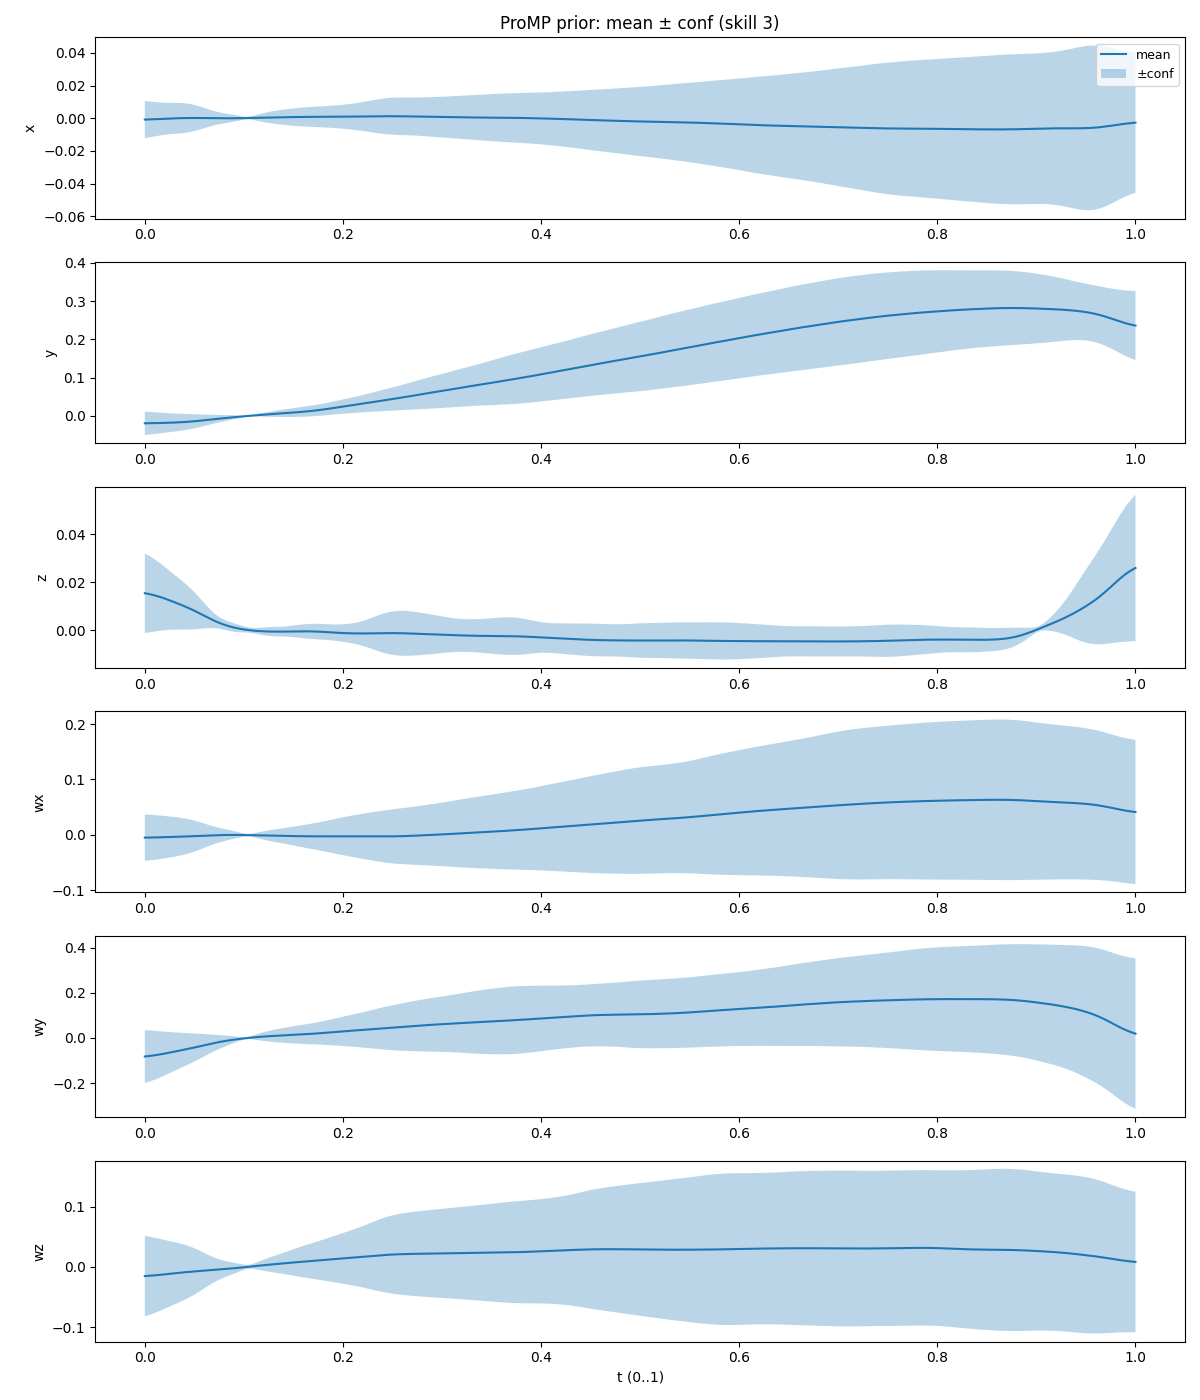
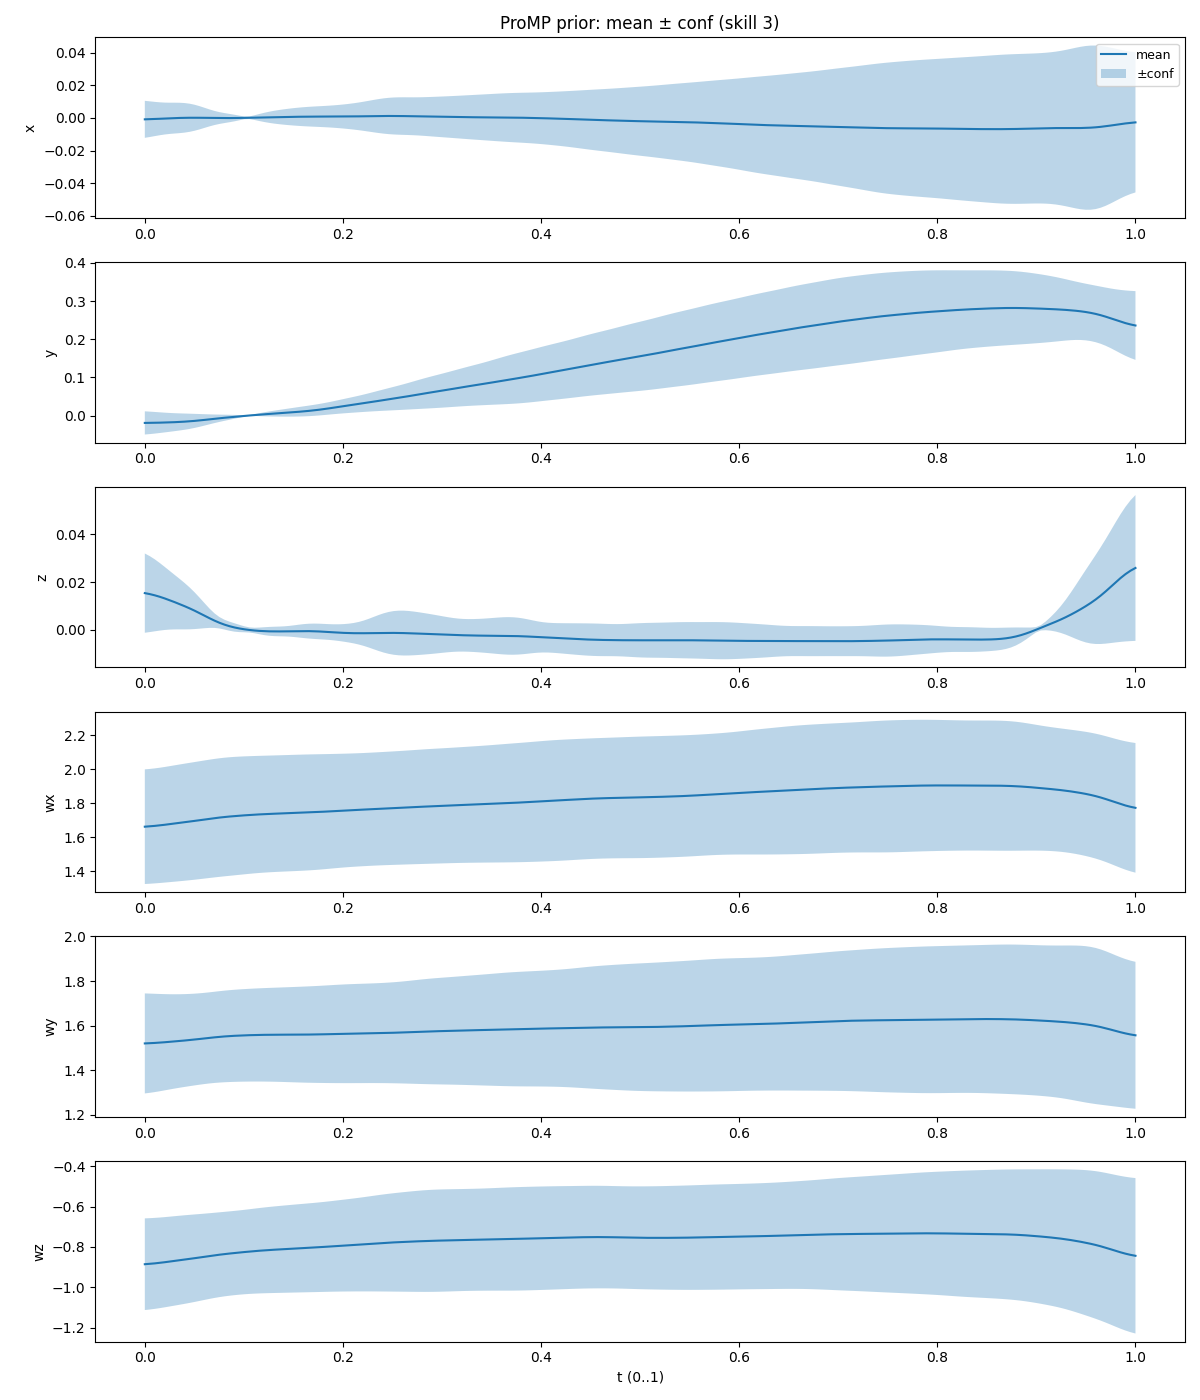
.

diff --git a/scripts/data_preprocessing.py b/scripts/data_preprocessing.py
@@ -186,6 +186,19 @@ def so3_log(R: np.ndarray) -> np.ndarray:
     w = np.array([w_hat[2, 1], w_hat[0, 2], w_hat[1, 0]], dtype=np.float64)
     return theta * w
 
+def quat_to_rotvec_abs(quat_local: np.ndarray) -> np.ndarray:
+    """
+    quat_local: (T,4) xyzw in local frame (should be unwrapped)
+    returns w_abs(t) = log(R_local(t)) in R^3
+    """
+    ql = np.asarray(quat_local, dtype=np.float64)
+    T = ql.shape[0]
+    w = np.zeros((T, 3), dtype=np.float64)
+    for t in range(T):
+        Rt = R_from_q(ql[t])
+        w[t] = so3_log(Rt)
+    return w
+
 
 def quat_to_rotvec_rel(quat_local: np.ndarray, ref_idx: int) -> np.ndarray:
     """
@@ -641,7 +654,7 @@ def main():
 
         # (B) rotvec w(t) = log(R_ref^T R_t), ref = chosen_idx
         #     (if chosen_idx invalid -> returns zeros)
-        w_full = quat_to_rotvec_rel(quat_l_u, ref_idx=chosen_idx)  # (T,3)
+        w_full = quat_to_rotvec_abs(quat_l_u)  # (T,3)
 
         # (C) mean over [chosen_idx .. chosen_idx+100)
         if chosen_idx >= 0:
@@ -867,7 +880,7 @@ def main():
             quat_l_u = unwrap_quat_signs(quat_l)
 
             # 2) rotvec (log map) relative to orientation at chosen
-            w = quat_to_rotvec_rel(quat_l_u, ref_idx=ci)  # (T,3)
+            w = quat_to_rotvec_abs(quat_l_u)  # (T,3)
 
             # 3) event-based phase resample
             pos_rs = resample_piecewise_timewarp_3seg(

diff --git a/results.md b/results.md
@@ -64,3 +64,4 @@
 |            | top5    | 0.0133 / 0.0114 / 0.0212 | 0.0519 / 0.0438 / 0.0827 | 0.0383 / 0.0320 / 0.0587 |
 | **cProMP** | overall | 0.0354 / 0.0342 / 0.0509 | 0.1201 / 0.1157 / 0.1861 | 0.0889 / 0.0858 / 0.1343 |
 |            | top5    | 0.0291 / 0.0290 / 0.0376 | 0.1320 / 0.1295 / 0.1616 | 0.0956 / 0.0932 / 0.1173 |
+
